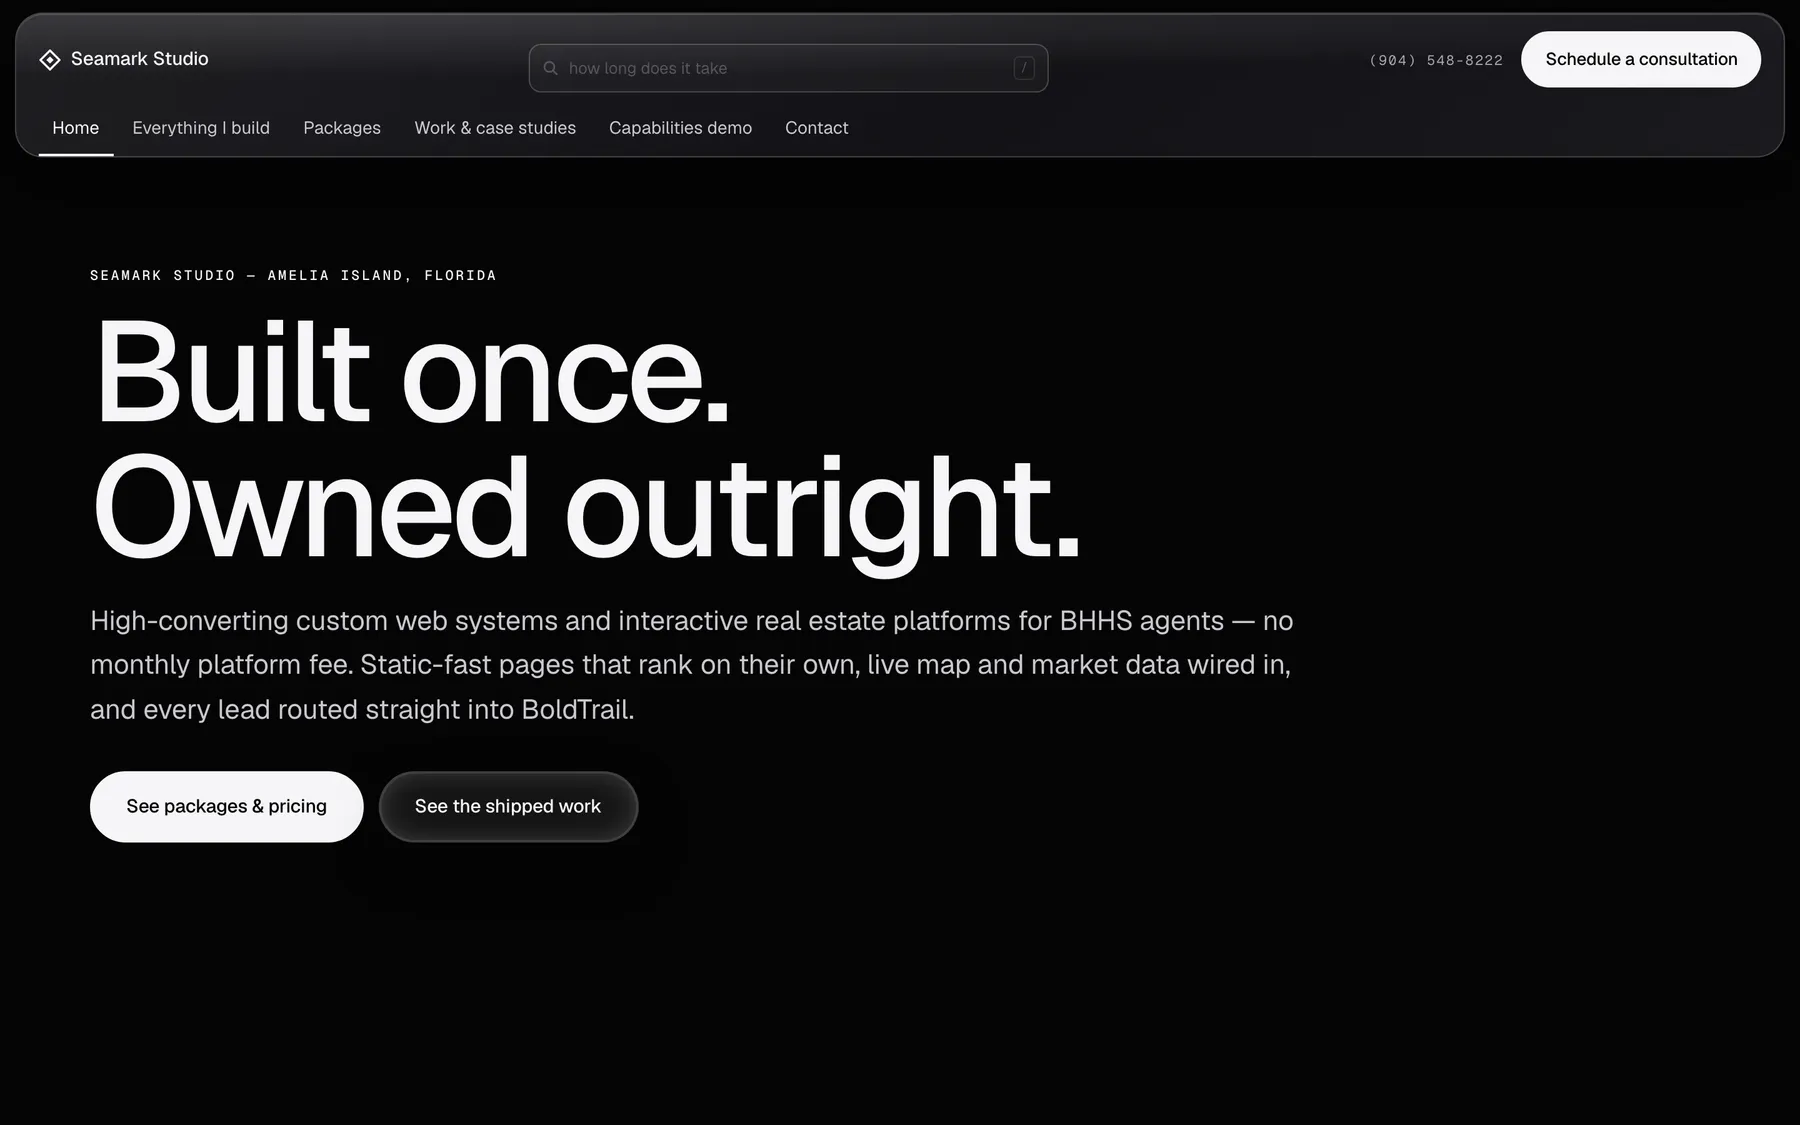
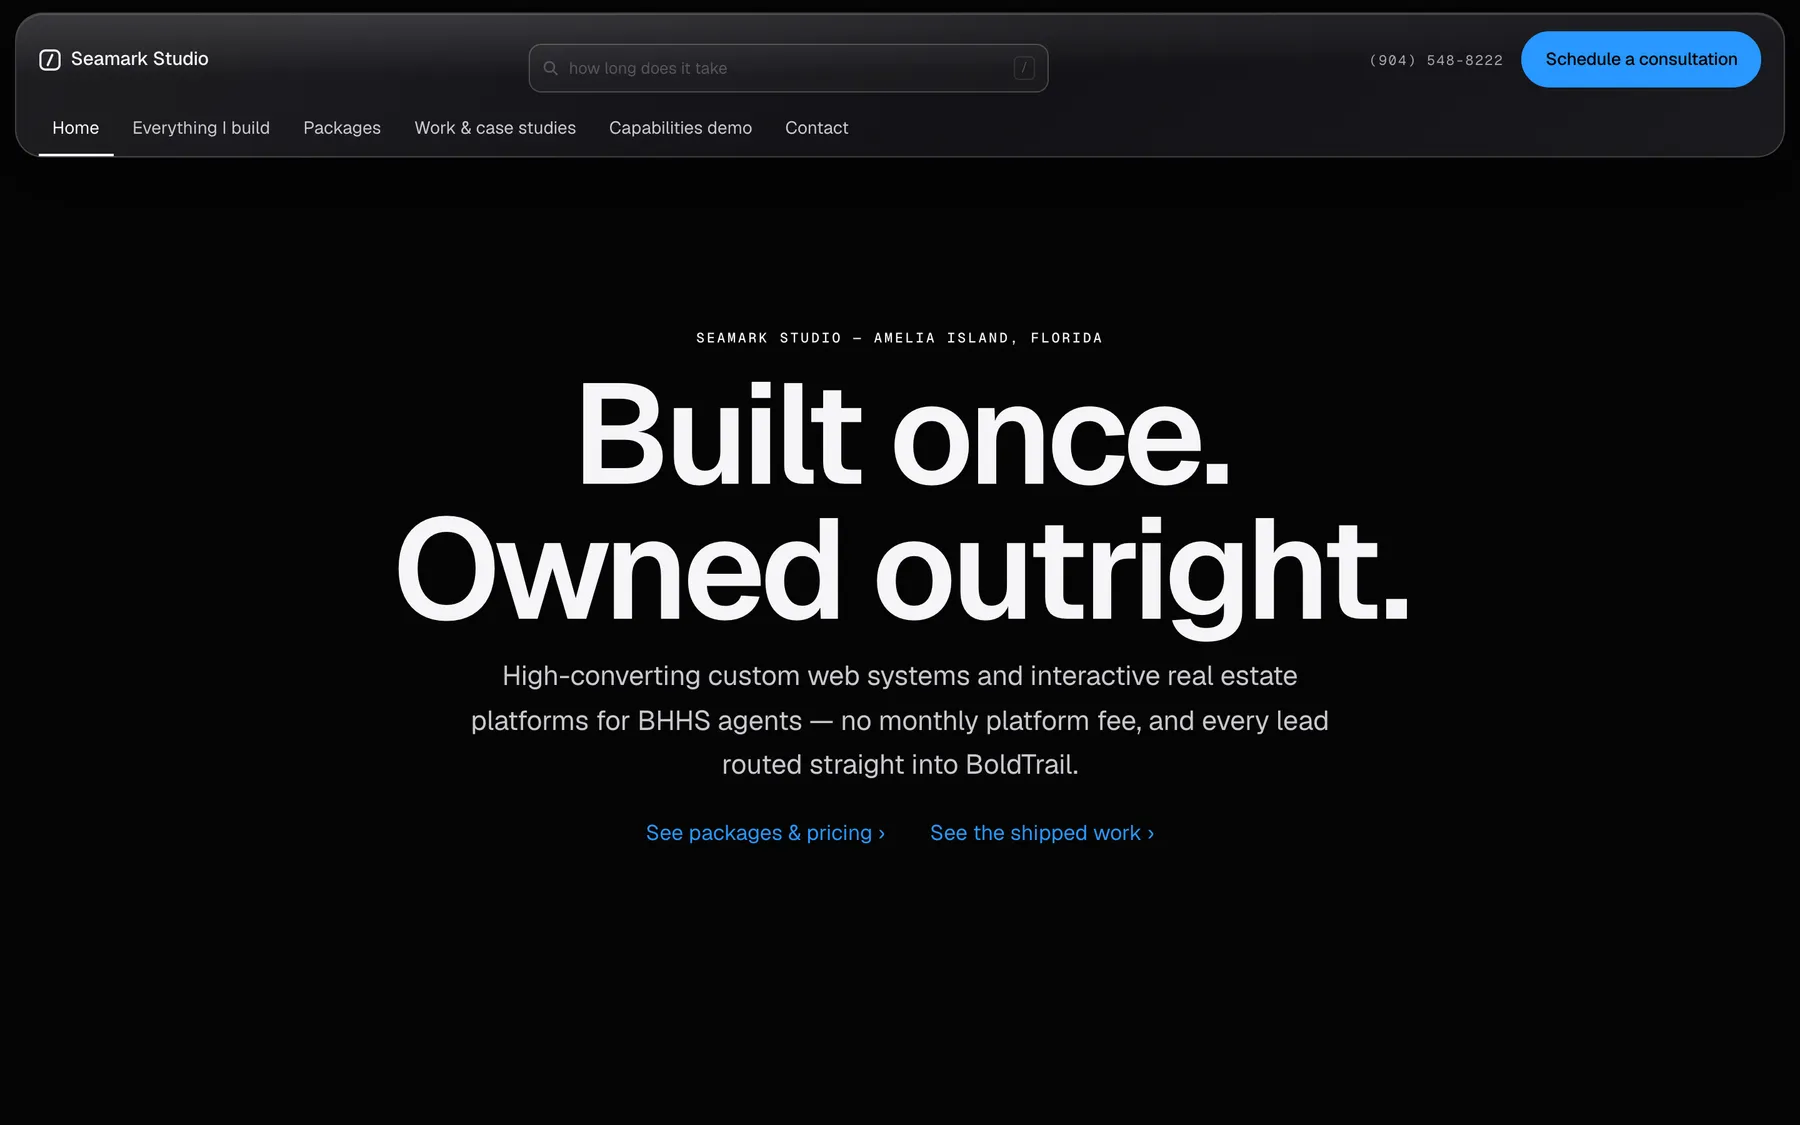
Polish closeout: centered heads, wider claim, the self-portrait
Detail-route heads center (the product-page register); the claim tile
gets the full 64rem measure so display type breaks where the copy says
to, not where a lede-width column forces it.

capture-self hardens against a reproducible swiftshader failure: a
second WebGL capture in a browser process the first capture churned
fails every time, in sequence, never in isolation — so each frame gets
a fresh process, plus a retry loop for the transient flavor of the same
error. The storefront's portfolio entry now shows the product stack it
describes, on both breakpoints.

All five gates green: entry 92.3 kB gz (≤105), css 11.9 kB gz (≤13),
maplibre on demand only, verifier clean across nine contrast passes on
both registers, tokens clean.

diff --git a/src/index.css b/src/index.css
@@ -2036,11 +2036,14 @@ select.field option {
 .page-panel.is-wide {
   width: min(64rem, calc(100vw - 2 * var(--gutter)));
 }
+/* Apple product-page heads: centered eyebrow, title and datum; the body
+   below stays left for reading. */
+.page-head {
+  text-align: center;
+}
 .page-back {
   display: inline-block;
   margin-bottom: 1rem;
-  /* Sits on the panel's lit rim, where muted ink measured 4.09:1 — the
-     soft tone holds 4.5 there. */
   color: var(--color-ink-soft);
 }
 @media (hover: hover) and (pointer: fine) {
